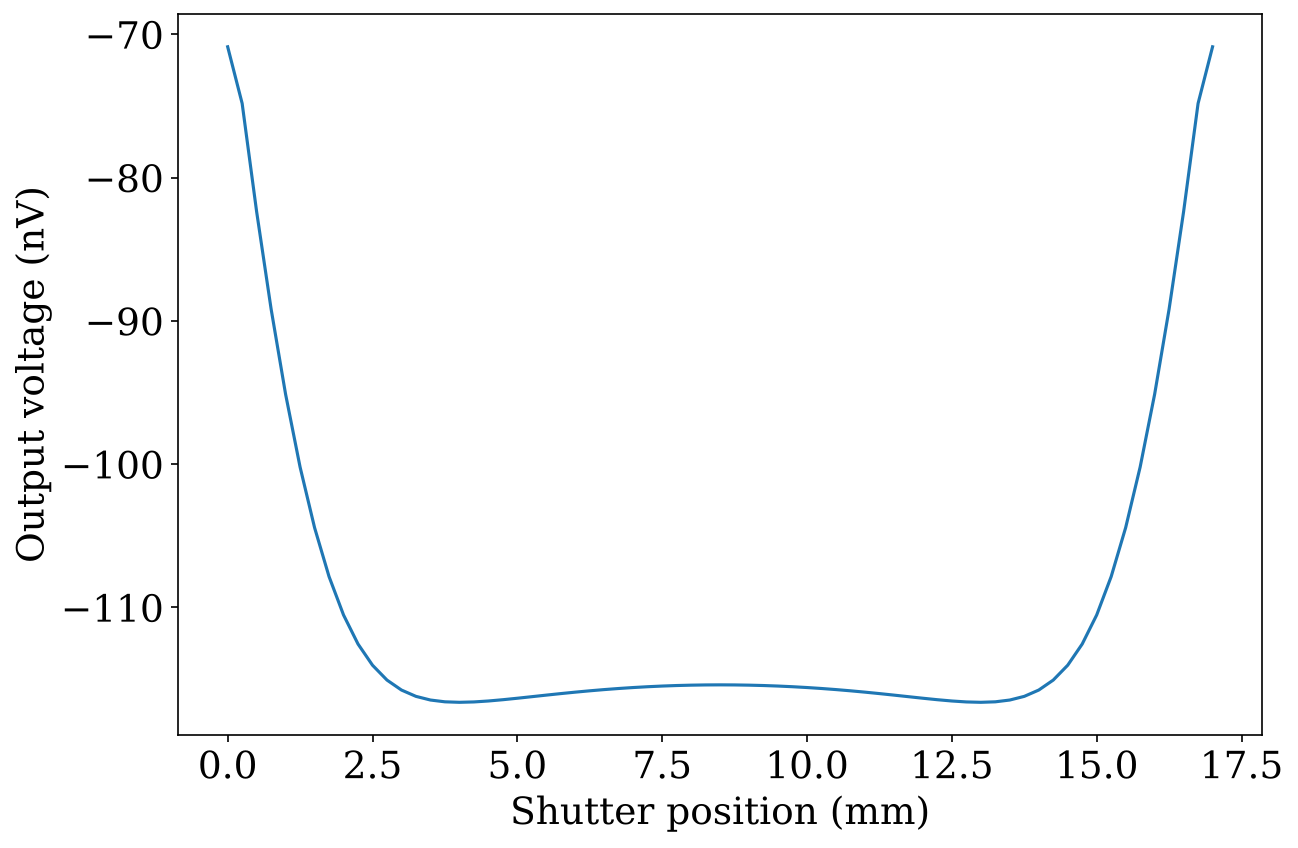
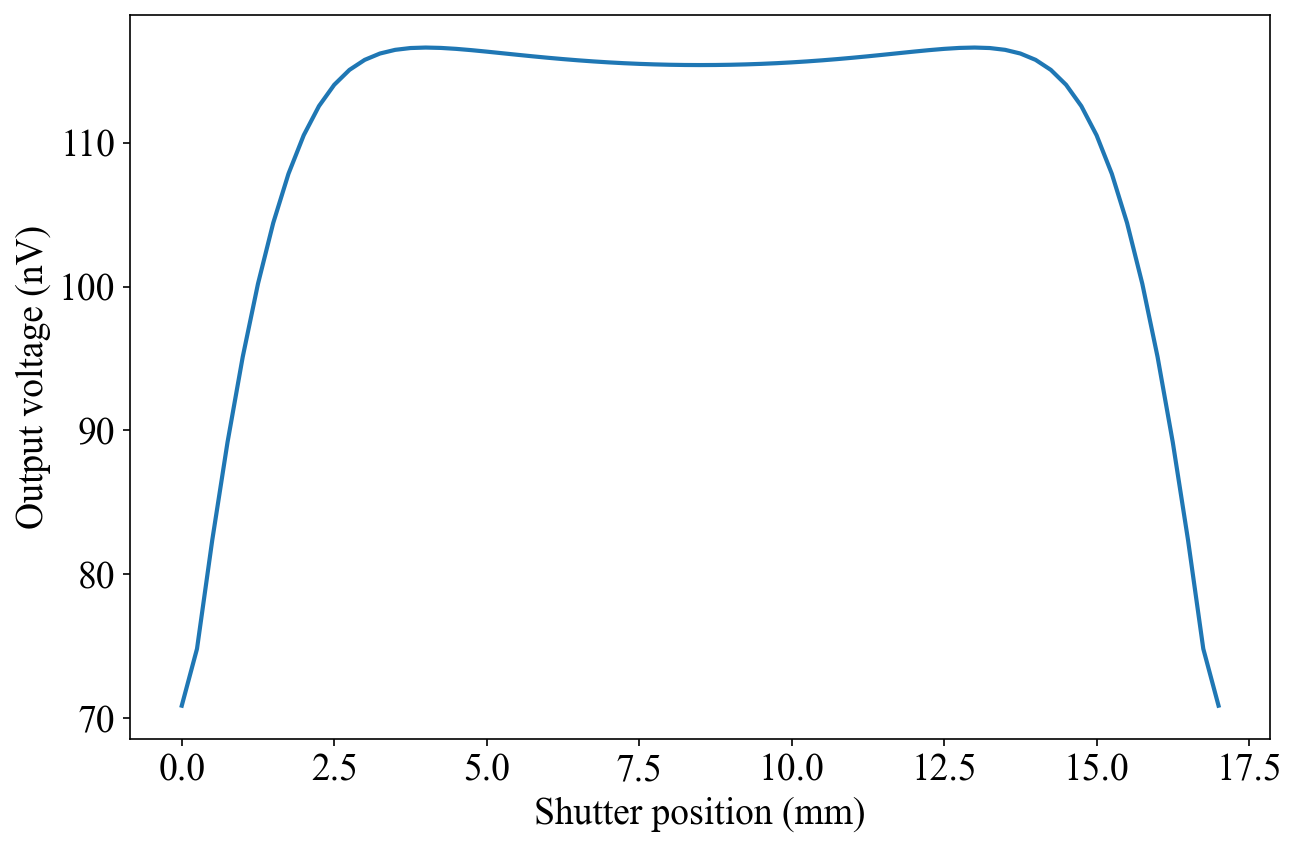
fixed

diff --git a/project1/functions.py b/project1/functions.py
@@ -13,17 +13,16 @@ class Geometry:
         self.dx = X[0, 1] - X[0, 0]
         self.dy = Y[1, 0] - Y[0, 0]
 
-        # The one array that matters: NaN = unknown, number = fixed voltage.
+        # potential map: NaN = unknown, number = fixed voltage.
         self.potential = np.full(X.shape, np.nan)
 
-        # d(potential)/dx on the left and right walls.
+        #  left and right walls.
         self.min_x_gradient = 0.0
         self.max_x_gradient = 0.0
 
-        # Kept only so plot_geometry can draw the objects.
         self.rectangles = []
 
-        # One True/False array per conductor, same shape as potential.
+        # One True/False array per conductor
         self.masks = {}
 
     # ---- Boundary conditions ----
@@ -50,7 +49,7 @@ class Geometry:
         inside = ((self.X >= x_left - tol) & (self.X <= x_right + tol)
                   & (self.Y >= y_bottom - tol) & (self.Y <= y_top + tol))
         self.potential[inside] = voltage
-        self.masks[name] = inside              # remember which nodes are this conductor
+        self.masks[name] = inside              # conductor
 
         self.rectangles.append({
             "name": name,
@@ -72,7 +71,6 @@ class Geometry:
     # ---- Equation numbering ----
     def number_unknowns(self):
         """Give every unknown node an equation number 0, 1, 2, ...
-
         """
         self.index = np.full(self.potential.shape, -1, dtype=int)
         self.index[self.unknown] = np.arange(self.unknown.sum())
@@ -114,11 +112,10 @@ class Geometry:
         rhs = 0.0
 
         # Side walls: the missing neighbour is a ghost node that mirrors the
-        # neighbour on the other side, corrected by the wall slope.
-        if left is None:       # V_left = V_right - 2*dx*slope
+        if left is None:       
             left, positions[0] = right, positions[1]
             rhs += -0.5 * self.dx * self.min_x_gradient
-        if right is None:      # V_right = V_left + 2*dx*slope
+        if right is None:      
             right, positions[1] = left, positions[0]
             rhs += 0.5 * self.dx * self.max_x_gradient
 
@@ -136,7 +133,6 @@ class Geometry:
 
     # ---- Build the system A · V = b ----
     def build_system(self):
-        """Build the sparse matrix A and the vector b for A · V = b."""
         n = int(self.unknown.sum())            # number of equations = unknowns
         rows, cols, vals = [], [], []
         b = np.zeros(n)
@@ -155,23 +151,11 @@ class Geometry:
     
     # ---- Solve ----
     def solve(self):
-        """Solve A · V = b and return the full potential map."""
         A, b = self.build_system()
-        V = spsolve(A, b)                  # potential at every unknown node
-        phi = self.potential.copy()        # fixed nodes already have their voltage
-        phi[self.unknown] = V              # put the unknowns back on the map
+        V = spsolve(A, b)                  
+        phi = self.potential.copy()        
+        phi[self.unknown] = V              
         return phi        
-    def boundary_charge(self, phi, row):
-        """Charge per unit depth (C/m) on the base (row=0) or top (row=-1) boundary.
-
-        Same link sum as charge(), but the end nodes (on the side walls)
-        only own half a cell, so they count half.
-        """
-        eps0 = 8.8541878128e-12
-        inside = 1 if row == 0 else -2          
-        weights = np.ones(phi.shape[1])
-        weights[0] = weights[-1] = 0.5
-        return eps0 * np.sum(weights * (phi[row, :] - phi[inside, :]))
 
     # ---- Electric field ----
     def electric_field(self, phi):
@@ -229,10 +213,6 @@ class Geometry:
 
     def plot_potential(self, phi=None, xlim=None, ylim=None, filename=None):
         """Plot a potential array. NaN (unknown) nodes are drawn in grey.
-
-        With no argument it plots self.potential (only fixed nodes are
-        coloured). Later, pass the solved array as phi.
-        xlim, ylim are (min, max) in millimetres, to zoom in.
         """
         import matplotlib.pyplot as plt
 

diff --git a/project1/run.py b/project1/run.py
@@ -1,6 +1,5 @@
 """
 * author: Ohidul Islam
-* created on 06-10-2026-14h-17m
 * copyright 2026
 """
 
@@ -15,7 +14,7 @@ dy = 0.25e-3
 
 # Physical and electrical parameters
 E0 = 100.0  # V/m
-w_out = 50e-3  # plate depth W (out of plane)
+w_out = 50e-3  
 Rf = 1e6  # ohm
 v = 1e-3  # m/s
 
@@ -26,7 +25,7 @@ domain_height = 80e-3
 # Sensing plates
 plate_length = 15e-3
 plate_thickness = 0.5e-3
-plate_height = 10e-3  # bottom of plates above y = 0
+plate_height = 10e-3  
 plate_gap = 2e-3
 
 yp0 = plate_height
@@ -54,7 +53,8 @@ s_end = plate2_x1 - shutter_length
 Ns = round((s_end - s_start) / dx) + 1
 
 # Shutter position 
-s = s_start
+s = (s_end + s_start)/2
+# s= s_
 
 # Grid
 number_of_x_points = round(domain_width / dx) + 1
@@ -73,8 +73,7 @@ geometry.min_y_bc(0.0)  # base
 geometry.max_y_bc(top_voltage)  # top
 geometry.min_x_bc(0.0)  # left wall: dV/dx = 0
 geometry.max_x_bc(0.0)  # right wall: dV/dx = 0
-geometry.plot_potential(filename="potential_initial.png")
-# Conductors: every node inside is fixed at 0 V
+# geometry.plot_potential(filename="potential_initial.png")
 geometry.add_conductor("Plate 1", plate1_x0, plate1_x1, yp0, yp1)
 geometry.add_conductor("Plate 2", plate2_x0, plate2_x1, yp0, yp1)
 geometry.add_conductor("Shutter", s, s + shutter_length, ys0, ys1)
@@ -86,7 +85,7 @@ print(f"Shutter positions: {Ns}")
 print(f"Fixed nodes:   {geometry.fixed.sum()}")
 print(f"Unknown nodes: {geometry.unknown.sum()}")
 
-# Number the unknown nodes (one equation per unknown node)
+# Number the unknown nodes 
 geometry.number_unknowns()
 print(f"Largest equation number + 1: {geometry.index.max() + 1}")
 print(f"Fixed nodes all -1: {(geometry.index[geometry.fixed] == -1).all()}")
@@ -103,13 +102,13 @@ print("Equation for node [50, 0]  (left wall):         ", geometry.equation_row(
 geometry.plot_geometry()
 
 
-geometry.plot_potential(filename="potential_with_geo.png")
+geometry.plot_potential(filename="potential_with_geo_mid.png")
 phi = geometry.solve()
-geometry.plot_potential(phi, filename="potential_solved.png")
+geometry.plot_potential(phi, filename="potential_solved_mid.png")
 
 
 Ex, Ey = geometry.electric_field(phi)
-geometry.plot_field(phi, xlim=(0, 80), ylim=(0, 80), filename="field.png")
+geometry.plot_field(phi, xlim=(0, 80), ylim=(0, 80), filename="field_mid.png")
 
 
 for name, mask in geometry.masks.items():
@@ -121,9 +120,3 @@ for name in geometry.masks:
     Q = geometry.charge(phi, name) * w_out
     print(f"{name}: Q = {Q:.3e} C")
 
-# Neutrality check: all charges together must add up to zero
-Q_base = geometry.boundary_charge(phi, 0) * w_out
-Q_top = geometry.boundary_charge(phi, -1) * w_out
-Q_all = sum(geometry.charge(phi, name) for name in geometry.masks) * w_out
-print(f"Base: {Q_base:.3e} C   Top: {Q_top:.3e} C")
-print(f"Sum of everything: {Q_all + Q_base + Q_top:.3e} C")

diff --git a/project1/output.py b/project1/output.py
@@ -13,26 +13,26 @@ plt.rcParams["font.size"] = 18
 Rf = 1e6  # ohm
 v = 1e-3  # m/s
 
-# Load the charge on each plate at every shutter position
+# Load the charge on each plate 
 data = np.load("sweep_data.npz")
-s = data["s"] - data["s"][0]   # shutter position, 0 = covering Plate 1 (m)
+s = data["s"] - data["s"][0]   
 Q1 = data["Q1"]
 Q2 = data["Q2"]
 
-# Current flowing out of each plate into the amplifier: i_in = -dQ/dt = -v * dQ/ds
+# Current 
 i1 = -v * np.gradient(Q1, s)
 i2 = -v * np.gradient(Q2, s)
 
-# Differential connection, then the transimpedance amplifier
+# Differential connection
 i = i1 - i2
-V_out = -i * Rf
+V_out = i * Rf
 
 print(f"Output in the middle of the stroke: {V_out[len(s) // 2] * 1e9:.1f} nV")
 print(f"Largest output:                     {np.abs(V_out).max() * 1e9:.1f} nV")
 
 # Plot
 fig, ax = plt.subplots(figsize=(9, 6))
-ax.plot(s * 1e3, V_out * 1e9)
+ax.plot(s * 1e3, V_out * 1e9, lw=2)
 ax.set_xlabel("Shutter position (mm)")
 ax.set_ylabel("Output voltage (nV)")
 fig.tight_layout()

diff --git a/project1/sweep.py b/project1/sweep.py
@@ -1,11 +1,9 @@
 """
  * author Ohidul Islam
  * copyright 2026
-"""
-
-"""
-Shutter sweep: solve the field for every shutter position and record the
-charge on Plate 1 and Plate 2.  Results are saved to sweep_data.npz.
+ 
+ Shutter sweep: solve the field for every shutter position and record the
+charge on Plate 1 and Plate 2
 """
 
 import time

diff --git a/project1/convergence.py b/project1/convergence.py
@@ -1,7 +1,3 @@
-"""
-Convergence check: how do Q1 and Q2 (shutter over Plate 1) change with
-domain size and grid spacing?  Stop trusting numbers that still move.
-"""
 
 import time
 import numpy as np

diff --git a/project1/analytical.py b/project1/analytical.py
@@ -1,6 +1,3 @@
-"""
-Analytical (ideal) amplifier output of the field mill.
-"""
 
 import numpy as np
 import matplotlib.pyplot as plt
